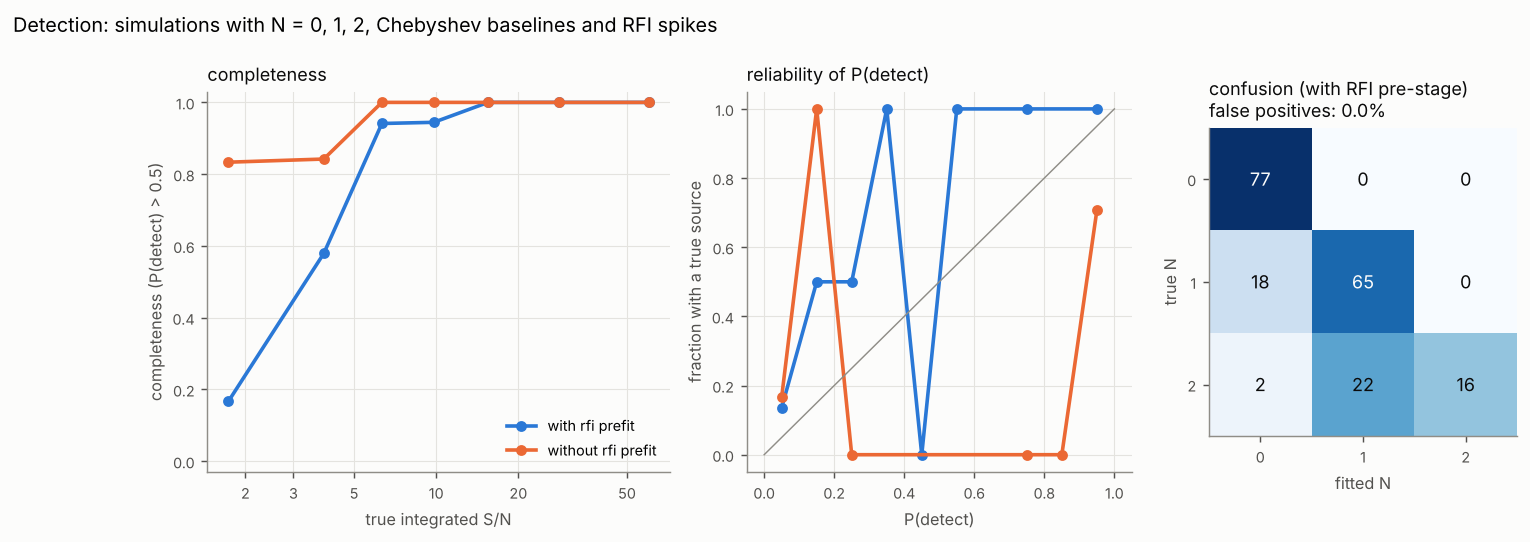
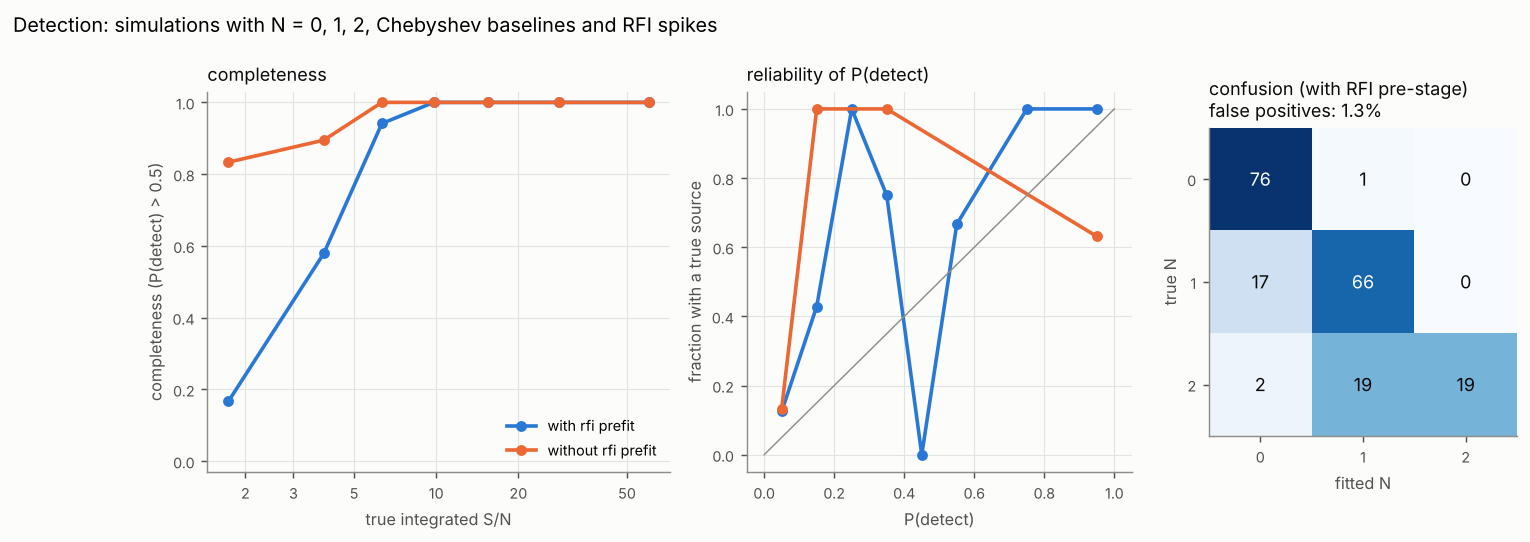
Validation docs: detection, misspecification and bias study
Results of the reruns with the current code: SBC (1000), detection (200,
with and without the RFI pre-stage), misspecification (4 x 100) and the
conditional-bias study for default vs flat priors. The flat priors are
more biased at S/N 5 than the THINGS priors, which stay the defaults.
Bias figure shows the uncertainty of the median per cell; gallery
regenerated.

Claude-Session: https://claude.ai/code/session_01HNuVsUUJVtD1RaQHWi7F3J

diff --git a/docs/make_figures.py b/docs/make_figures.py
@@ -433,6 +433,12 @@ def misspec_figure(stage_dir: Path) -> Path:
     return _save(fig, "misspec_flags.png")
 
 
+def _median_err(c) -> float:
+    """Standard error of a median from the robust scatter and the number of detections."""
+    n = max(c["n"] * c["completeness"], 1.0)
+    return 1.2533 * c["bayes_W50_scatter"] / np.sqrt(n)
+
+
 def bias_figure(root: Path, name: str = "bias_study.png") -> Path:
     """Conditional bias of W50 against S/N for fixed true widths (benchmarks/bias_study.py)."""
     import json
@@ -460,10 +466,10 @@ def bias_figure(root: Path, name: str = "bias_study.png") -> Path:
             )
             ax.fill_between(
                 snr,
-                [c["bayes_W50_bias"] - c["bayes_W50_scatter"] for c in cells],
-                [c["bayes_W50_bias"] + c["bayes_W50_scatter"] for c in cells],
+                [c["bayes_W50_bias"] - _median_err(c) for c in cells],
+                [c["bayes_W50_bias"] + _median_err(c) for c in cells],
                 color=style.SERIES[i],
-                alpha=0.08,
+                alpha=0.15,
                 lw=0,
             )
         ax.axhline(0, color=style.INK_2, lw=0.8)
@@ -487,13 +493,19 @@ def bias_figure(root: Path, name: str = "bias_study.png") -> Path:
     ax.set_xlabel("true integrated S/N")
     ax.set_ylabel("classical W50 − truth [km/s]")
     ax.set_title("classical W50 on the same spectra", loc="left", fontsize=9)
-    lo = min(ax.get_ylim()[0] for ax in axes)
-    hi = max(ax.get_ylim()[1] for ax in axes)
+    lim = max(
+        abs(c[key])
+        for _, t in sets
+        for c in t
+        for key in ("bayes_W50_bias", "classic_W50_bias")
+        if np.isfinite(c[key])
+    )
+    lo, hi = -1.1 * lim, 1.1 * lim
     for ax in axes:
         ax.set_ylim(lo, hi)
     axes[0].legend(fontsize=8, loc="lower right")
     fig.suptitle(
-        "Conditional bias of W50 for fixed true profiles (median ± robust scatter per cell)",
+        "Conditional bias of W50 for fixed true profiles (median per cell, band: uncertainty of the median)",
         x=0.01,
         ha="left",
         fontsize=11,

diff --git a/docs/validation.md b/docs/validation.md
@@ -2,11 +2,13 @@
 
 All stages run with `hiprofile validate` (set-up of each stage in
 `hiprofile/validate/stages.py`); the figures come from
-`python docs/make_figures.py validation <run directory>`. The results below
+`python docs/make_figures.py validation <run directory>` and
+`python docs/make_figures.py bias <bias-study directory>`. The results below
 use the default configuration (full mode, SMC sampler, N ≤ 2, K ≤ 3, RFI
 pre-stage) on a 4-core machine: `--seed 11` for the 1000 SBC simulations,
-`--seed 21` for the 200 detection simulations and `--seed 31` for the 100
-misspecified profiles.
+`--seed 21` for the 200 detection simulations, `--seed 31` for the 4 × 100
+misspecified spectra and `benchmarks/bias_study.py --n 20` (seed 5) for the
+bias study.
 
 ## Stage 1: simulation-based calibration
 
@@ -22,22 +24,22 @@ intervals must cover the truth at their nominal rate.
 
 | parameter | rank p-value | 68 % coverage | 95 % coverage |
 |---|---|---|---|
-| v_ctr | 0.98 | 0.69 | 0.96 |
-| Δv | 0.45 | 0.68 | 0.94 |
-| Δv_rand | 0.79 | 0.68 | 0.95 |
-| α | 0.63 | 0.67 | 0.96 |
-| S | 0.16 | 0.67 | 0.95 |
-| f | 0.07 | 0.70 | 0.94 |
-| W50 | 0.27 | 0.70 | 0.94 |
-| W20 | 0.99 | 0.69 | 0.94 |
+| v_ctr | 0.55 | 0.68 | 0.96 |
+| Δv | 0.78 | 0.68 | 0.94 |
+| Δv_rand | 0.71 | 0.69 | 0.95 |
+| α | 0.74 | 0.67 | 0.95 |
+| S | 0.30 | 0.67 | 0.95 |
+| f | 0.31 | 0.70 | 0.94 |
+| W50 | 0.84 | 0.69 | 0.94 |
+| W20 | 0.54 | 0.69 | 0.94 |
 
 ![SBC: rank histograms, interval coverage and baseline-order calibration](img/sbc.png)
 
-All rank histograms are flat (no U shape, slope or peak; all p > 0.05), and
+All rank histograms are flat (no U shape, slope or peak; all p > 0.3), and
 the 68 % and 95 % coverages lie inside the ±2σ bands for 1000 simulations
-(0.65–0.71 and 0.94–0.96). The 27.6 % of simulations that are not detected
-(faint draws of the half-normal flux prior) take part in the rank
-statistics like every other simulation.
+(0.65–0.71 and 0.94–0.96). The simulations that are not detected (faint
+draws of the half-normal flux prior, about a quarter) take part in the
+rank statistics like every other simulation.
 
 **Baseline order.** The most probable K is the true one in 93 % of the
 simulations and P(K_true | y) averages 0.88; the reliability curve (right
@@ -49,39 +51,142 @@ probable K) is one-sided:
   266      2      0      0
    14    229      0      0
     6     14    220      0
-    2      6     26    215
+    2      6     25    216
 ```
 
 A true K = 3 whose highest coefficients happen to be small is read as K = 2
-(26 of 249), which is the right answer for terms the data cannot see; the
+(25 of 249), which is the right answer for terms the data cannot see; the
 reverse, a spurious high order, almost never happens.
 
-**Flags.** 12 % of the fits carry a flag: `prior_edge` 6.4 % (Δv_rand at
+**Flags.** 12.7 % of the fits carry a flag: `prior_edge` 7.2 % (Δv_rand at
 its 4 km/s bound or f at 0/1 for faint, narrow lines), `prior_dominated`
-3.8 %, `wiggle` 2.1 %, `multimodal` 0.9 %, `ppp` 0.9 %. None of these
-rates is a failure: the simulations include the faint end of the flux prior,
-where the width is not measurable.
+3.1 %, `wiggle` 2.2 %, `ppp` 0.9 %, `multimodal` 0.8 %. The simulations
+include the faint end of the flux prior, where the width is not measurable.
 
 The same simulations measured against the truth (detected ones, N = 1):
 
 | quantity | Bayes bias | Bayes scatter | classical bias | classical scatter |
 |---|---|---|---|---|
-| W50 [km/s] | 0.4 | 10.6 | −0.3 | 19.5 |
-| W20 [km/s] | 0.4 | 13.0 | 23.5 | 33.5 |
-| S [Jy km/s] | 0.000 | 0.36 | 0.03 | 0.39 |
-| v_sys [km/s] | −0.2 | 4.5 | 0.1 | 8.3 |
+| W50 [km/s] | 0.4 | 10.6 | −0.9 | 19.3 |
+| W20 [km/s] | 0.3 | 12.6 | 22.7 | 33.0 |
+| S [Jy km/s] | −0.01 | 0.36 | 0.03 | 0.39 |
+| v_sys [km/s] | −0.2 | 4.7 | 0.1 | 8.2 |
 
 ![Line widths: Bayesian fit against the classical measurement](img/bayes_vs_classic.png)
 
 The posterior medians are unbiased, and their scatter is half (W50, v_sys)
 to a third (W20) of that of the classical measurement on the same data. The
 classical W20 is biased high at low S/N because noise peaks raise the 20 %
-crossing points; the Bayesian W50 is pulled slightly low below S/N ≈ 4,
-where the width prior takes over (`prior_dominated`). See
-[Priors](priors.md) for the conditional bias as a function of true width
-and S/N.
+crossing points.
 
 Example posterior (corner plot of a low-S/N SBC spectrum with a bimodal
 centre):
 
 ![corner plot](img/corner_example.png)
+
+## Stage 2: detection and confusion
+
+`hiprofile validate --stage detection --n 200 --seed 21 --jobs 4`
+
+200 spectra with N = 0, 1, 2 (probabilities 0.4, 0.4, 0.2), integrated
+S/N 2–40 per component, a first-order baseline and single-channel RFI
+spikes (on average 0.005 per channel, i.e. 2–3 per spectrum), fitted twice:
+with and without the RFI pre-stage.
+
+![Detection: completeness, reliability and confusion matrix](img/detection.png)
+
+| | with RFI pre-stage | without |
+|---|---|---|
+| false positives, P(detect) > 0.5 | 1 of 77 (1.3 %) | 83 % |
+| false positives, P(detect) > 0.9 | 0 | 83 % |
+| completeness S/N 3–5 / 5–8 / ≥ 8 | 0.58 / 0.94 / 1.00 | 0.89 / 1.00 / 1.00 |
+| flagged | 8 % | 87 % |
+
+Confusion matrix with the pre-stage (rows: true N, columns: most probable N):
+
+```
+   76      1      0
+   17     66      0
+    2     19     19
+```
+
+* **N = 0 and N = 1** are separated cleanly. The completeness with the
+  pre-stage equals that of the SBC, which has no RFI at all (0.45 at
+  S/N 3–5, 0.93 at 5–8, 1.00 above 8), so the pre-stage costs no
+  completeness. Without it, RFI spikes are fitted as lines: 83 % false
+  positives, 64 % of the fits flagged `unresolved`.
+* **The one false positive** (P(detect) = 0.58) is a 520 km/s wide, shallow
+  "line" that competes with the baseline; it carries the `prior_dominated`
+  and `wiggle` flags.
+* **N = 2.** Of the 19 pairs with both components at S/N > 6 and separated
+  by more than their width, 15 are fitted as N = 2; the four others have
+  P(N = 2) between 0 and 0.43 with evidences within 1–3 nats of N = 1, so
+  the data do not decide them. Pairs with a second component below S/N 6
+  (20 of 40) are mostly fitted as N = 1, as they should be: a second line at
+  S/N 3 is not detectable on its own either.
+
+An earlier version missed bright pairs: the one-component RFI pre-stage
+masked the second line as a run of outliers, and neither the quick stage nor
+the SMC found the narrow two-line mode. The pre-stage now keeps runs longer
+than three channels, and both samplers are warm-started from residual
+features (see [Inference](inference.md#model-comparison)).
+
+## Stage 3: misspecification
+
+`hiprofile validate --stage misspec --n 100 --seed 31 --jobs 4`
+
+Four sets of 100 one-component spectra at S/N 5–80: model profiles
+(`clean`), profiles not generated by the model (`template`: tilted-ring
+galaxies with a rising rotation curve, inclinations of 30–85°, lopsidedness
+up to 30 % and central HI holes, integrated on a fine grid), model profiles on a sinusoidal baseline
+that no Chebyshev polynomial up to K = 3 describes (`sine_baseline`), and
+model profiles with RFI fitted without the pre-stage (`rfi_unmasked`).
+
+![Flag rates on misspecified spectra](img/misspec_flags.png)
+
+| set | flagged | W50 bias / scatter [km/s] | 68 % coverage of W50 |
+|---|---|---|---|
+| clean | 9 % | 0.9 / 4.8 | 0.73 |
+| template | 13 % | 0.5 / 6.8 | 0.72 |
+| sine baseline | 99 % | 0.5 / 27.9 | 0.27 |
+| RFI unmasked | 100 % | −90 / 115 | 0.14 |
+
+The model describes these galaxy-like profiles well enough that the widths stay
+unbiased and calibrated. When the model is wrong (a sine baseline, unmasked
+RFI) the posteriors are overconfident, as any posterior of a wrong model is,
+but the flags catch it: `ppp` and `residual_acf` mark almost every
+sine-baseline fit, `ppp`, `prior_edge`, `unresolved` and `wiggle` mark the
+RFI fits. Flagged fits should not enter a science sample without a look at
+the plot.
+
+## Conditional bias: default against flat priors
+
+`python benchmarks/bias_study.py --out DIR --n 20 --priors default|flat`
+
+The SBC shows that the posteriors are calibrated *on average over the
+prior*. For a given galaxy the posterior median is still pulled towards
+typical values when the data are weak. The bias study fixes the true profile
+on a grid of widths (Δv = 20–400 km/s, Δv_rand = 12 km/s, α = 0.1,
+f = 0.25) and integrated S/N (3–40), simulates 20 spectra per cell and fits
+them with the default (THINGS) priors and with flat priors (log-uniform
+Δv and Δv_rand, uniform α and f).
+
+![Conditional bias of W50 for fixed true profiles](img/bias_study.png)
+
+* From S/N 8 upwards both prior sets are unbiased to within a few km/s
+  (default priors: |bias| ≤ 7 km/s in every cell), while the classical W50
+  of wide profiles is biased by up to +37 km/s.
+* At S/N 5 the default priors pull a 430 km/s line down by 45 km/s and a
+  48 km/s line up by 17 km/s; the flat priors pull the wide line down by
+  130 km/s. A flat prior is therefore *not* the unbiased choice: the
+  log-uniform width prior puts most of its mass at small widths, and the
+  faint wings of a wide line are lost in the noise and the baseline whatever
+  the prior. With the THINGS priors the shrinkage is smaller everywhere
+  except for the narrowest lines.
+* These cells carry the `prior_dominated` flag in up to half of the fits
+  (constraint on Δv below 0.3): the width of a line at S/N ≤ 5 is a
+  statement of the prior, not a measurement.
+
+No choice of prior removes the conditional bias at low S/N, because there is
+no information on the width there; the default priors minimise it for the
+galaxy population they were calibrated on and are kept.

diff --git a/docs/priors.md b/docs/priors.md
@@ -48,8 +48,13 @@ range (very disturbed or very narrow profiles) are pulled towards typical
 values; the `prior_edge` flag marks posteriors that pile up at a prior
 boundary, and `prior_dominated` marks fits whose Δv posterior is not much
 narrower than the prior (the width is then a prior statement, not a
-measurement). See [Validation](validation.md) for the measured bias as a
-function of true width and S/N.
+measurement). The bias study in [Validation](validation.md#conditional-bias-default-against-flat-priors)
+measures the pull for fixed true profiles: from S/N 8 upwards the posterior
+median of W50 is unbiased to within a few km/s; at S/N 5 a 430 km/s line is
+pulled down by 45 km/s with these priors and by 130 km/s with flat
+(log-uniform) priors, so the THINGS priors are kept as defaults.
+
+![Conditional bias of W50 for default and flat priors](img/bias_study.png)
 
 References: Stewart, Blyth & de Blok (2014), A&A 567, A61 (arXiv:1405.1838);
 Ianjamasimanana et al. (2012), arXiv:1207.5041; Oman (2022), arXiv:2108.08856;

diff --git a/README.md b/README.md
@@ -69,6 +69,9 @@ simulator draws from the same priors. Details in [docs/priors.md](docs/priors.md
 coverages are calibrated, the baseline order is recovered in 93 % of the
 cases, and the posterior medians of W50, W20 and v_sys scatter half to a
 third as much as the classical measurements on the same data.
+With the RFI pre-stage no noise spectrum with RFI spikes reaches
+P(detect) > 0.9, and spectra with deliberately wrong models (standing-wave
+baselines, unmasked RFI) are flagged in 99–100 % of the cases.
 
 ![Line widths: Bayesian fit against the classical measurement](docs/img/bayes_vs_classic.png)
 
